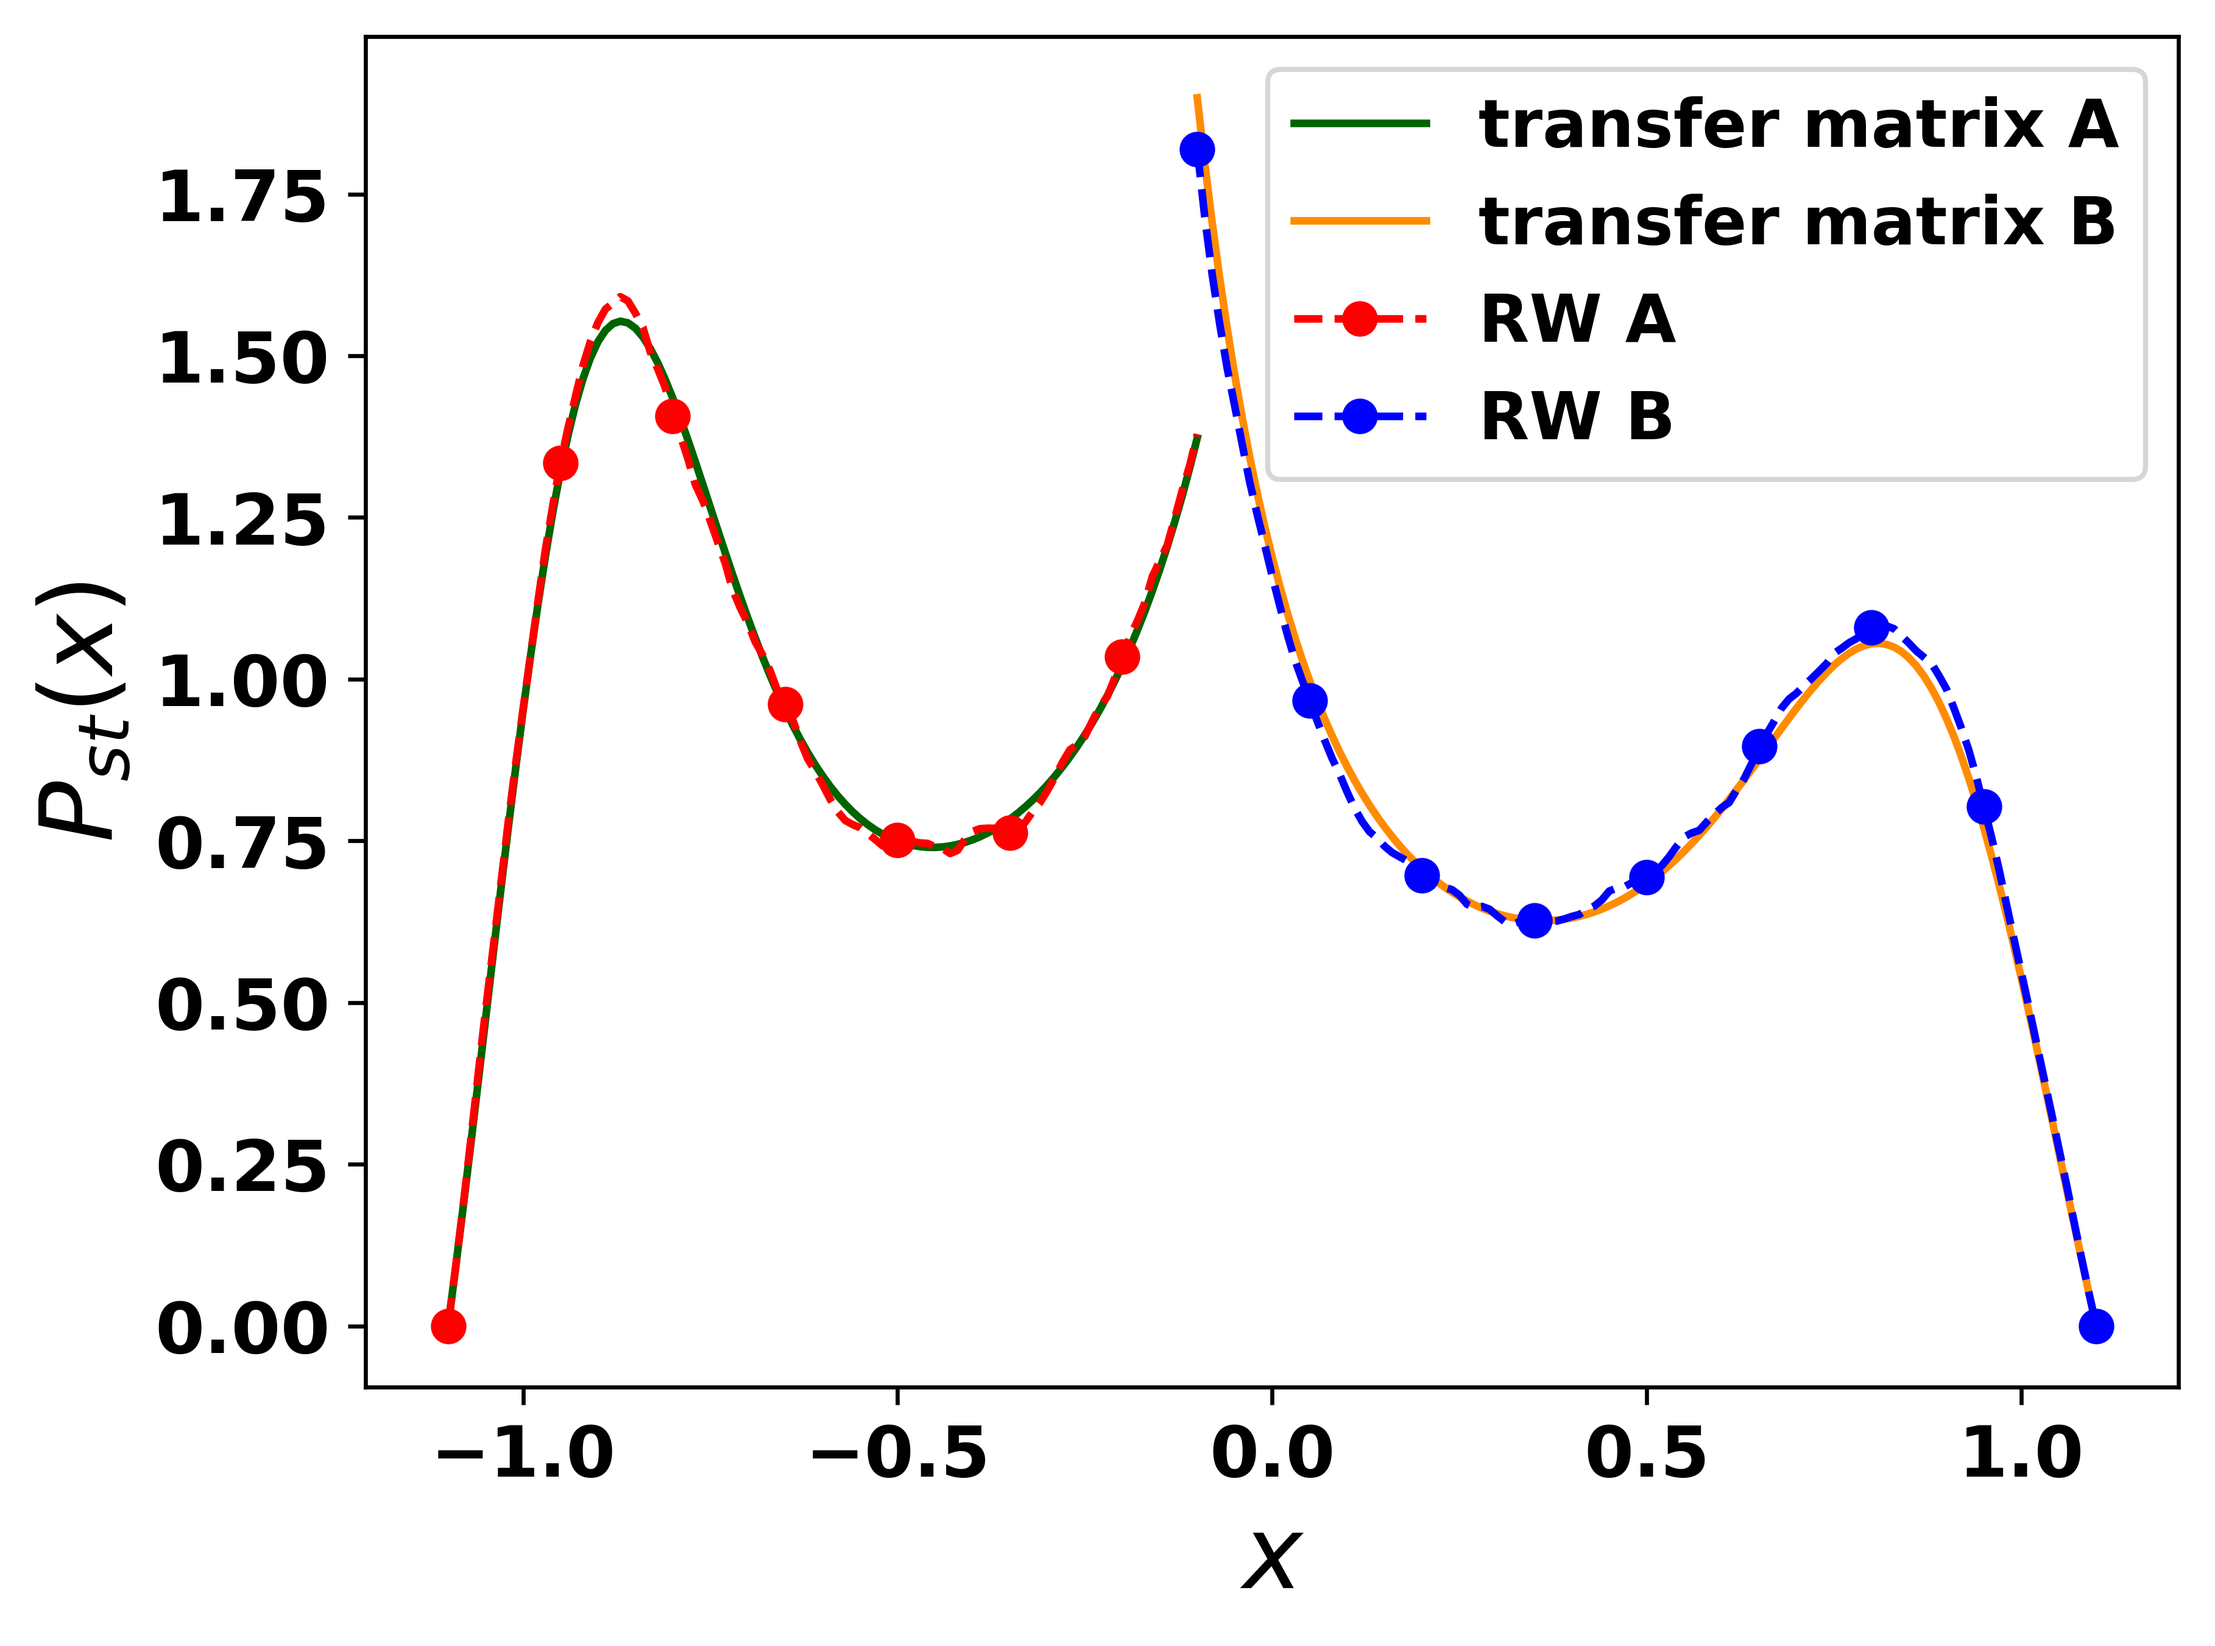
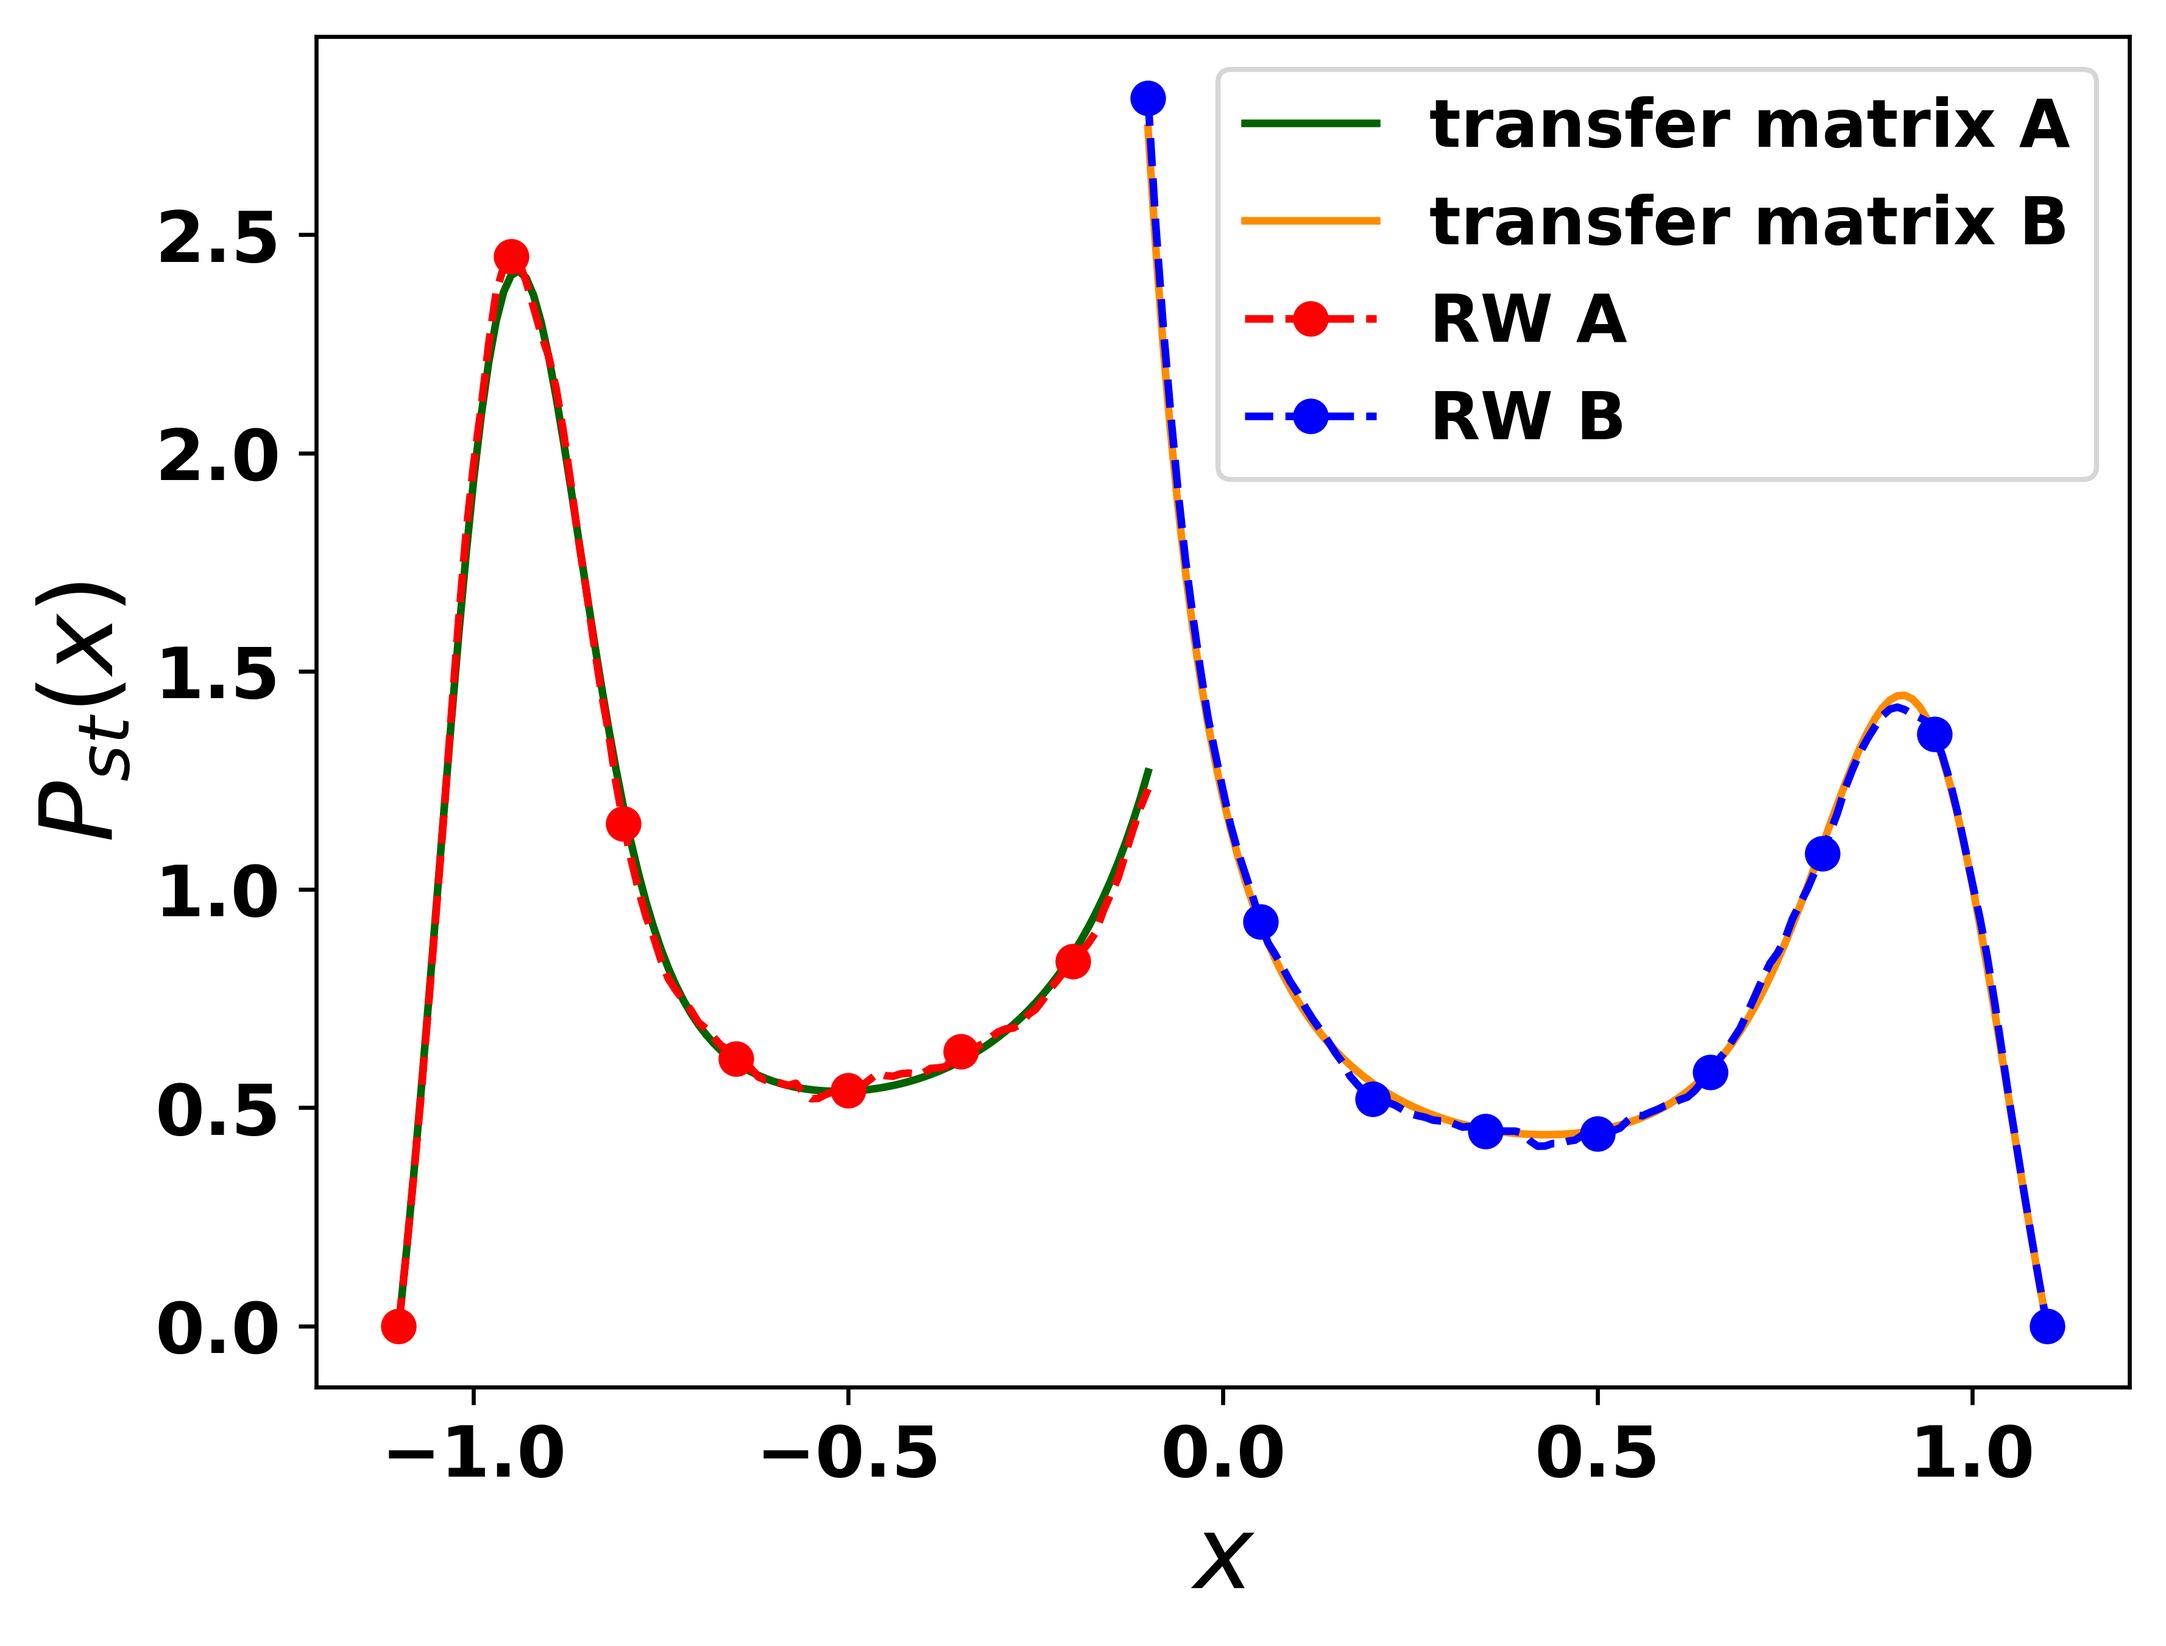
Add plot script and nicer plots for regular top-start method (high barrier RW)

diff --git a/Top_start_method/Random_walk_Model/Regular_version/regular_top_start_reconst_plot.py b/Top_start_method/Random_walk_Model/Regular_version/regular_top_start_reconst_plot.py
@@ -6,8 +6,8 @@ from scipy.interpolate import interp1d, PchipInterpolator, CubicSpline
 
 # Define the double-well potential using two Gaussian functions
 # def double_gaussian_potential(x, A1=3, mu1=-1, sigma1=0.5, A2=4, mu2=1, sigma2=0.6):
-def double_gaussian_potential(x, A1=12, mu1=-1, sigma1=0.5, A2=10, mu2=1, sigma2=0.6):
-# def double_gaussian_potential(x, A1=30, mu1=-1, sigma1=0.5, A2=25, mu2=1, sigma2=0.6):
+# def double_gaussian_potential(x, A1=12, mu1=-1, sigma1=0.5, A2=10, mu2=1, sigma2=0.6):
+def double_gaussian_potential(x, A1=30, mu1=-1, sigma1=0.5, A2=25, mu2=1, sigma2=0.6):
     V1 = A1 * np.exp(-((x - mu1)**2) / (2 * sigma1**2))
     V2 = A2 * np.exp(-((x - mu2)**2) / (2 * sigma2**2))
     return -(V1 + V2)
